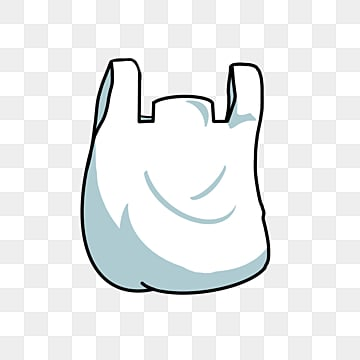
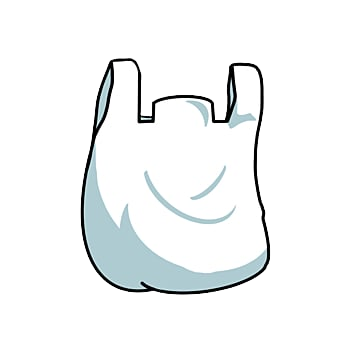
Fix images backgrpund

diff --git a/index.html b/index.html
@@ -19,12 +19,12 @@
 
         <div class="content">
           <p class="story">
-            You got yourself a fancy new inflatable boat and are ready to sail
-            into the Berlin sunset. <br />
+            You got yourself a cool new inflatable boat and are ready to sail
+            into the Berlin sunset. &#9973 <br>
             But like a true Berliner you decided to first make the Spree look a
             little better.
-            <br />
-            Collect as much debris as possible and keep away from sharp objects!
+            <br>
+            Collect as much debris as possible and keep away from sharp objects and angry birds!
           </p>
           <button id="start-button">Start Game</button>
           <p>Use the up and down arrows to control the boat.</p>
@@ -34,8 +34,8 @@
 
       <div class="game-container" id="game-container">
         <!-- #game-screen is initially hidden using CSS style display: none -->
-        <div>
-          <h2>Clean-up Progress</h2>
+        <div class="stats" id="stats">
+          <h2>Stats</h2>
           <!-- Initial  -->
           <p>Score: <span id="score">0</span></p>
           <p>Lives: <span id="lives">3</span></p>
@@ -46,11 +46,14 @@
 
       <!-- #game-end is initially hidden using CSS style display: none -->
       <div id="game-end">
-        <img src="" alt="" class="" />
-        <h1>Game Over</h1>
-        <h2>Placeholder for stats</h2>
-        <br />
-        <button id="restart-button">Give it another go!</button>
+        <div class="end-content">
+            <h1>Mission completed!</h1>
+            <h3>Well done! <span class="emoji">&#127942</span><br> Sorry for the boat, but it was all for a good cause!</h3>
+            <br />
+            <button id="restart-button">Give it another go!</button>
+            <p><strong>Pollution Impact </strong> <br>
+                Urban areas generate a large amount of plastic waste, and much of it ends up in rivers. <br> Single-use plastics like bottles, bags, and packaging are commonly discarded irresponsibly, finding their way into waterways. <br> The presence of plastic debris in rivers not only harms aquatic species but can also contribute to the breakdown of plastic into microplastics, which have widespread ecological impacts.</p>
+        </div>
       </div>
     </main>
     <script type="text/javascript" src="src/obstacles.js"></script>

diff --git a/styles/style.css b/styles/style.css
@@ -8,40 +8,42 @@ body {
 
 body button {
   font-size: 30px;
-  background-color: #1da49d;
+  background-color: #2aa8a2;
   color: #fff;
   padding: 20px 40px;
+  margin-top: 10px;
   border: 0;
   box-shadow: 0;
-  border-radius: 5px;
+  border-radius: 10px;
   margin-bottom: 20px;
 }
 
 .intro-page {
-  padding: 20px 0px;
   overflow: hidden;
   position: relative;
   background-image: url(../images/Berlin-riverside.png);
   background-repeat: no-repeat;
   background-size: cover;
   background-position: center center;
-  align-content: center;
+  /* align-content: center; */
   height: 100vh;
   display: grid;
   place-items: center;
-  /* animation: slide 5s linear infinite; */
 }
 
 .content {
   background-color: hsl(34, 78%, 91%, 0.8);
-  width: 50%;
+  width: 60%;
   padding: 5px;
   color: darkgreen;
   font-size: 30px;
+  padding: 20px;
 }
 
 .arrows {
-  width: 2em;
+  width: 6%;
+  height: 8%;
+  padding-top: 2%;
 }
 
 .start-button {
@@ -55,8 +57,13 @@ body button {
   margin-bottom: 20px;
 }
 
+/* adding section resulted in changes to the game screen with river moving at the top of screen */
+/* .stats { 
+  display: none;} */
+
+  /* display none added to container vs car game to game screen */
 .game-container {
-  display: none;
+  display: none;   
   flex-direction: column;
   justify-content: space-between;
   align-items: center;
@@ -65,8 +72,8 @@ body button {
   background-repeat: no-repeat;
   background-size: cover;
   background-position: center;
-  color: darkgreen;
-  font-size: 1.5em;
+  color: rgb(4, 88, 4);
+  font-size: 30px;
 }
 
 #game-screen {
@@ -88,4 +95,40 @@ body button {
 
 #game-end {
   display: none;
+  font-size: 30px;
+  height: 100vh;
+  color: darkgreen;
+  position: relative;
+  background-image: url(../images/Berlin-riverside.png);
+  background-repeat: no-repeat;
+  background-size: cover;
+  background-position: center center;
+
+}
+
+.end-content {
+  background-color: hsl(34, 78%, 91%, 0.8);
+  width: 60%;
+  padding: 20px;
+  color: darkgreen;
+  font-size: 25px;
+  line-height: 1.8em;
+  position: absolute;
+  top: 50%;
+  left: 50%;
+  transform: translate(-50%, -50%);
+}
+
+.emoji {
+    display: inline-block;
+    animation: bounce 0.5s ease-in-out infinite;
+}
+
+@keyframes bounce {
+  0%, 100% {
+    transform: translateY(0);
+  }
+  50% {
+    transform: translateY(-10px);
+  }
 }

diff --git a/src/game.js b/src/game.js
@@ -1,9 +1,10 @@
 class Game {
   constructor() {
     this.startScreen = document.querySelector("#game-intro");
-    this.gameContainer = document.querySelector("#game-container");
-    this.gameScreen = document.querySelector("#game-screen");
+    this.gameContainer = document.querySelector("#game-container");   // added to set styling to container with none display
+    this.gameScreen = document.querySelector("#game-screen");   
     this.gameEndScreen = document.querySelector("#game-end");
+  
 
     this.player = new Player(
       this.gameScreen,
@@ -11,7 +12,7 @@ class Game {
       130,
       100,
       100,
-      "../images/inflatable-boat.png"
+      "../images/Player-bear-boat.png"
     );
 
     // game screen
@@ -23,9 +24,9 @@ class Game {
     this.lives = 4;
     this.scoreElement = document.querySelector("#score"); //added for score & lives
     this.livesElement = document.querySelector("#lives"); //added for score & lives
-    this.gameIsOver = false; // not in EB
-    this.obstacleGenerationInterval = 1100; // extra EB
-    this.debrisGenerationInterval = 1200; // extra EB
+    this.gameIsOver = false; 
+    this.obstacleGenerationInterval = 1100; 
+    this.debrisGenerationInterval = 1200; 
   }
 
   // Starts game loop
@@ -34,12 +35,12 @@ class Game {
     this.gameScreen.style.width = `${this.width}px`;
     this.startScreen.style.display = "none";
     this.gameScreen.style.display = "block";
-    this.gameContainer.style.display = "flex";
-
-    this.startObstacleGeneration();
-    this.startDebrisGeneration();
+    this.gameContainer.style.display = "flex";  //added to format game view to display both game screen & stats
 
     this.gameLoop();
+    this.startObstacleGeneration();
+    this.startDebrisGeneration();
+  
   }
 
   gameLoop() {
@@ -54,9 +55,6 @@ class Game {
   //Controls player movement, object ineraction & scoring system
   update() {
     this.player.move();
-
-    // Create a new obstacle & debris based on a random probability
-    // when there is no other obstacles on the screen
   
     // Update obstacles
     for (let i = this.obstacles.length - 1; i >= 0; i--) {

diff --git a/src/obstacles.js b/src/obstacles.js
@@ -52,7 +52,7 @@ class Debris {
     //Creates array of possible debris elements, then randomises
     const randomDebris = [
       "../images/Debris-plastic-bag.png",
-      "../images/Debris-paper-coffee-cup.jpeg",
+      "../images/Debris-paper-coffee-cup.png",
       "../images/Debris-water-bottle.png",
     ];
     const randomChoice = Math.floor(Math.random() * randomDebris.length);
